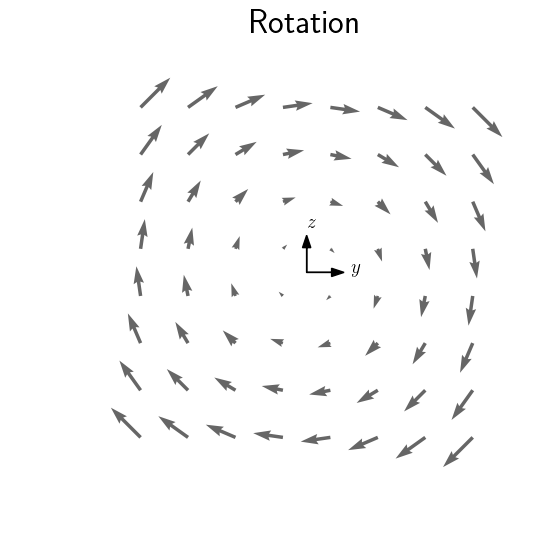
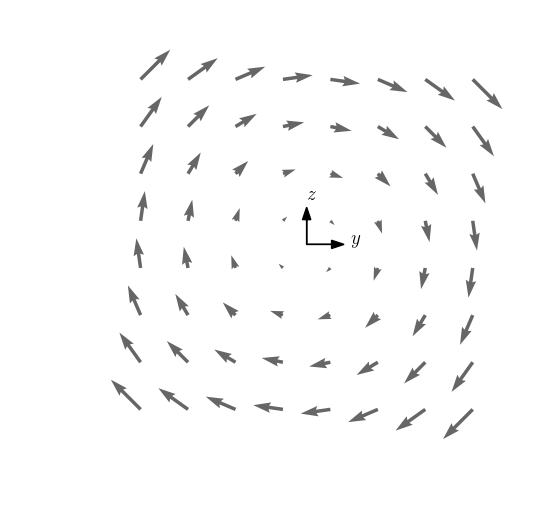
Added Lissajous.

diff --git a/src/lissajous.py b/src/lissajous.py
@@ -1,0 +1,69 @@
+import sys
+import numpy as np
+from matplotlib import pyplot as plt
+
+params = {'text.usetex' : True,
+          'font.size' : 12.5,
+          'font.family' : 'lmodern',
+          'text.latex.unicode' : True}
+
+plt.rcParams['text.latex.preamble']=[r'\usepackage{lmodern}']
+plt.rcParams.update(params)
+
+pi = np.pi
+cos = np.cos
+sin = np.sin
+
+#---- define a function to plot data
+
+def plot_data(ax, x,y):
+    
+    ax.plot(x,y)
+
+    ax.set_xlim(-1.2, 1.2)
+    ax.set_ylim(-1.2, 1.2)
+
+    ax.set_aspect('equal')
+    ax.grid(True)
+    
+    ax.set_xlabel(r'$x=$ cos($t$)')
+    ax.set_ylabel(r'$y=A$cos($\omega t+\delta \pi$)')
+    ax.set_title(r'$A=$ '+('%.1f'%A)+
+                 r', $\omega=$ '+('%.1f'%omega)+
+                 r', $\delta=$ '+('%.1f'%delta))
+    
+    return ax
+
+
+#---- Script
+
+if __name__ == '__main__':
+
+    #---> Create the figure
+    
+    fig, ax = plt.subplots(1, 1, sharey=True)
+    fig.set_size_inches(5,5)
+
+    #---> Plot
+
+    t = np.linspace(0.,4.*pi,500)
+
+    X = cos(t)
+
+    A = 1.
+    
+    cnt = 0
+    for omega in np.linspace(2.,2.,1):
+        for delta in np.linspace(0.,2.,21):
+            Y = A*cos(omega*t + delta*pi)
+    
+            ax = plot_data(ax, X,Y)
+            cnt += 1
+            print 'number ',cnt
+            
+            plt.savefig('../output/Lissajous/curve'+('%03d'%cnt)+'.png',
+                        bbox_inches='tight', transparent=False)
+            
+            plt.cla()  # clear axis
+            
+    #plt.show()

diff --git a/src/shear.py b/src/shear.py
@@ -20,7 +20,7 @@ def plot_data(ax, x0,y0,u0,v0, tname):#, x1,y1):
     ax.set_ylim(-1.4, 1.4)
 
     plt.axis('off')
-    plt.title(tname)
+    #plt.title(tname)
 
     #-- draw coords arrows
 
